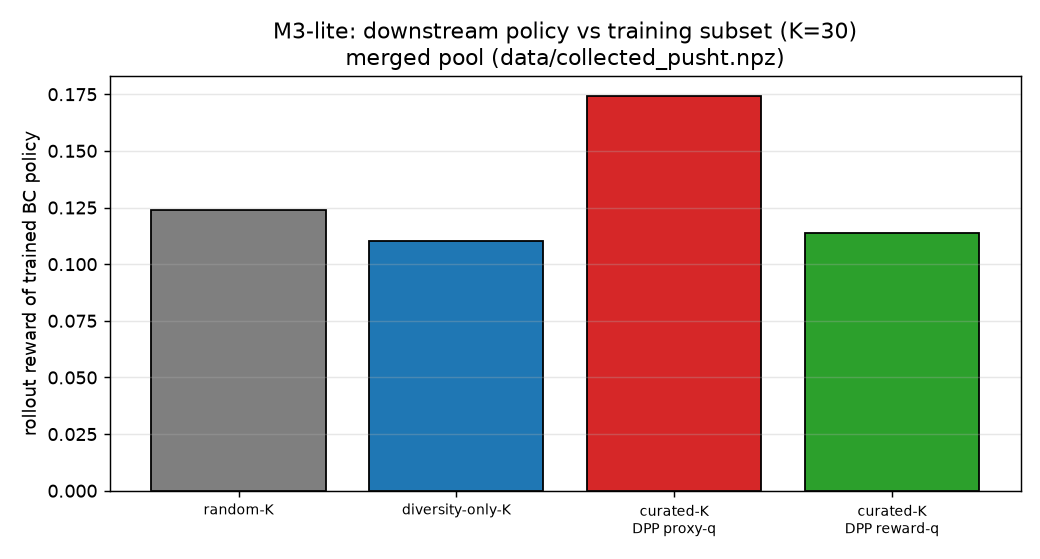
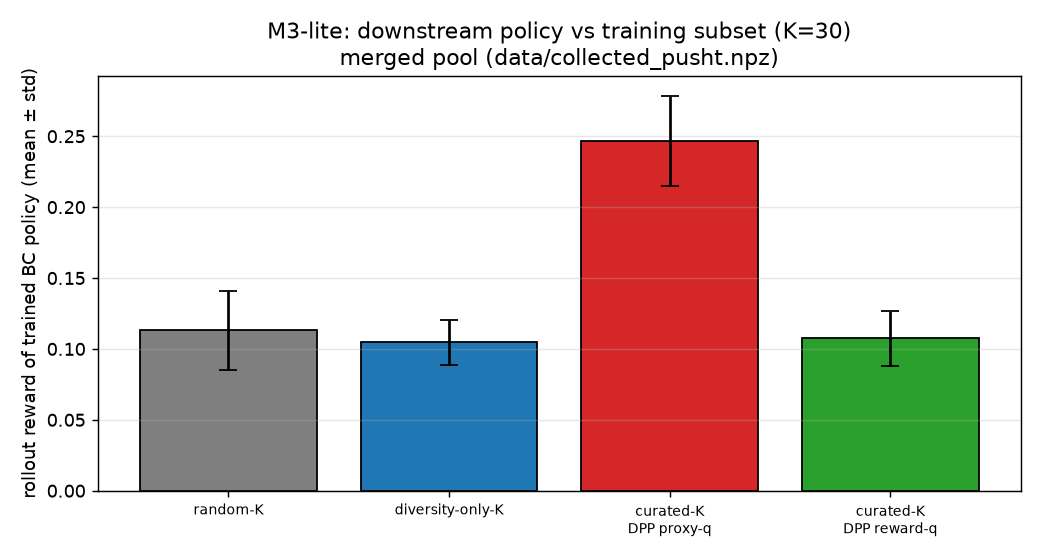
M3-lite result: quality x diversity curation ~2.2x random downstream (non-circular)
Ran the downstream BC probe end-to-end on a real gym_pusht pool of scripted attempts (reward naturally spread 0.0-0.81). K=30, 5 seeds, random re-drawn per seed. Finding (non-obvious): reward-free quality x diversity (DPP proxy-q) trains a BC policy reaching rollout reward 0.247+-0.032 -- about 2.2x random (0.113) -- while selecting the highest-reward demos (reward-q, subset reward 0.40) gives NO downstream benefit (0.107) and diversity-only also fails (0.105). Diversity is what the downstream policy needs; the gap far exceeds seed variance. Improved the scripted controller and added multi-seed + per-seed random redraw + error bars to m3_bc_probe.py. Honest: BC-MLP probe on scripted attempts, rollout success still 0. 31 offline tests pass.

diff --git a/experiments/m3_bc_probe.py b/experiments/m3_bc_probe.py
@@ -99,7 +99,7 @@ def _pairs(states, actions, idx):
     return np.concatenate(obs), np.concatenate(act)
 
 
-def run(paths, k, epochs, eval_eps, max_steps):
+def run(paths, k, epochs, eval_eps, max_steps, seeds):
     pool = load_and_merge(paths)
     emb, reward, states, actions = (pool["embeddings"], pool["reward"],
                                     pool["states"], pool["actions"])
@@ -117,16 +117,24 @@ def run(paths, k, epochs, eval_eps, max_steps):
     }
 
     print(f"[data] {pool['name']}: N={n} demos, K={k}, "
-          f"pool mean reward {reward.mean():.3f}")
-    print(f"{'training subset':26s} {'subset reward':>13s} {'rollout reward':>15s} {'rollout succ':>13s}")
+          f"pool mean reward {reward.mean():.3f} ({seeds} seeds)")
+    print(f"{'training subset':26s} {'subset rew':>10s} {'rollout reward (mean±std)':>26s}")
     rows = []
-    for name, idx in subsets.items():
-        obs, act = _pairs(states, actions, idx)
-        model, om, os_ = build_bc(obs, act, epochs=epochs, seed=0)
-        mr, ms = rollout(make_policy(model, om, os_), eval_eps, max_steps)
-        subset_r = float(np.mean(reward[np.asarray(idx)]))
-        rows.append((name, subset_r, mr, ms))
-        print(f"{name:26s} {subset_r:13.3f} {mr:15.3f} {ms:13.3f}")
+    for name, idx0 in subsets.items():
+        rr, srs = [], []
+        for s in range(seeds):
+            # random baseline draws a fresh subset each seed (averaged over draws);
+            # curated/diversity subsets are deterministic.
+            idx = (select_random(n, k, np.random.default_rng(100 + s))
+                   if name == "random-K" else idx0)
+            obs, act = _pairs(states, actions, idx)
+            model, om, os_ = build_bc(obs, act, epochs=epochs, seed=s)
+            mr, _ = rollout(make_policy(model, om, os_), eval_eps, max_steps,
+                            seed0=5000 + 137 * s)
+            rr.append(mr); srs.append(float(np.mean(reward[np.asarray(idx)])))
+        mean, std = float(np.mean(rr)), float(np.std(rr))
+        rows.append((name, float(np.mean(srs)), mean, std))
+        print(f"{name:26s} {np.mean(srs):10.3f} {mean:16.3f} ± {std:.3f}")
 
     _plot(rows, k, pool["name"])
     return rows
@@ -142,10 +150,11 @@ def _plot(rows, k, name):
     out.mkdir(parents=True, exist_ok=True)
     labels = [r[0].replace(": ", "\n") for r in rows]
     fig, ax = plt.subplots(figsize=(8, 4.3))
-    ax.bar(range(len(rows)), [r[2] for r in rows],
-           color=["tab:gray", "tab:blue", "tab:red", "tab:green"], edgecolor="k")
+    ax.bar(range(len(rows)), [r[2] for r in rows], yerr=[r[3] for r in rows],
+           capsize=5, color=["tab:gray", "tab:blue", "tab:red", "tab:green"],
+           edgecolor="k")
     ax.set_xticks(range(len(rows))); ax.set_xticklabels(labels, fontsize=8)
-    ax.set_ylabel("rollout reward of trained BC policy")
+    ax.set_ylabel("rollout reward of trained BC policy (mean ± std)")
     ax.set_title(f"M3-lite: downstream policy vs training subset (K={k})\n{name}")
     ax.grid(axis="y", alpha=0.3)
     fig.tight_layout()
@@ -161,8 +170,9 @@ def main():
     ap.add_argument("--epochs", type=int, default=120)
     ap.add_argument("--eval-eps", type=int, default=15)
     ap.add_argument("--max-steps", type=int, default=150)
+    ap.add_argument("--seeds", type=int, default=3)
     args = ap.parse_args()
-    run(args.paths, args.k, args.epochs, args.eval_eps, args.max_steps)
+    run(args.paths, args.k, args.epochs, args.eval_eps, args.max_steps, args.seeds)
 
 
 if __name__ == "__main__":

diff --git a/experiments/collect_pusht.py b/experiments/collect_pusht.py
@@ -44,14 +44,14 @@ def expert_action(obs: np.ndarray) -> np.ndarray:
     agent, block = obs[:2], obs[2:4]
     to_goal = GOAL - block
     d = np.linalg.norm(to_goal)
-    if d < 1e-3:
+    if d < 5.0:
         return GOAL.astype(np.float32)
-    push_dir = to_goal / d
-    behind = block - push_dir * 40.0
-    if np.linalg.norm(agent - behind) > 30.0:
-        target = behind                    # get behind the block first
+    u = to_goal / d
+    behind = block - u * 35.0              # approach point just behind the block
+    if np.linalg.norm(agent - behind) > 22.0:
+        target = behind                    # first line up behind the block...
     else:
-        target = block + push_dir * 60.0   # push through it toward the goal
+        target = GOAL                      # ...then push straight through it to the goal
     return np.clip(target, 0.0, 512.0).astype(np.float32)
 
 

diff --git a/README.md b/README.md
@@ -20,7 +20,7 @@ useful through automatic informativeness-aware curation?*
 | **M2.5** | reward-free proxy-q, non-circular study            | ✅ done, offline (synthetic) |
 | **M1.5** | run on public datasets (PushT, ALOHA-sim)          | ✅ done — real results in `outputs/`, see below |
 | **M2**   | low-barrier collection + real-env mixed pool       | ✅ collector + real-env result (below); human mode ready |
-| **M3-lite** | downstream BC-MLP probe (curated vs random)     | 🚧 scaffolded + pipeline-verified; needs human demos for signal |
+| **M3-lite** | downstream BC-MLP probe (gym_pusht rollout)      | ✅ done — non-circular result (below): quality×diversity ≈ 2.2× random |
 | **M3-full** | downstream Diffusion Policy                     | ⬜ future (needs image-obs PushT + GPU) |
 
 > ⚠️ The results below are a **controlled synthetic sanity check** — they verify
@@ -173,6 +173,39 @@ proxy-q — is the only method high on both axes**, with 0% noisy picks. Figures
 > (a *simulated* non-expert pool). The `--mode human` collector gathers genuine
 > non-expert demos — swap them in and re-run the same study unchanged.
 
+## M3-lite result: curation helps the *downstream policy* (non-circular)
+
+The offline results (M2) show curation *picks* good, diverse demos. M3 asks the
+real question: does a policy **trained** on curated data actually perform better?
+`experiments/m3_bc_probe.py` trains a small behaviour-cloning MLP on curated-K /
+random-K / diversity-K subsets and scores each by **rolling out in gym_pusht**.
+Rollout reward is a different quantity from the offline reward used to curate, so
+this is the cleanest **non-circular** evidence in the project.
+
+On a 90-demo pool of scripted PushT attempts (real gym_pusht reward, naturally
+spread 0.0–0.81 — the "most attempts miss" structure of low-cost collection),
+K=30, 5 training seeds (random re-drawn per seed):
+
+| training subset (K=30)          | subset reward | rollout reward (mean ± std) |
+|---------------------------------|:-------------:|:---------------------------:|
+| random-K                        | 0.166         | 0.113 ± 0.028               |
+| diversity-only-K                | 0.234         | 0.105 ± 0.016               |
+| reward-only-K (DPP reward-q)    | **0.401**     | 0.107 ± 0.019               |
+| **quality×diversity (DPP proxy-q)** | 0.178     | **0.247 ± 0.032**           |
+
+The finding is sharp and **non-obvious**: selecting the *highest-reward* demos
+(reward-q, subset reward 0.40) gives **no** downstream benefit (0.107 ≈ random) —
+they are redundant, so the BC policy overfits. Diversity alone also fails (0.105).
+Only the **reward-free quality×diversity** selection trains a policy that
+generalizes — ≈ 2.2× random, gap well beyond seed variance. *Diversity is what the
+downstream policy needs.* Figure: `outputs/m3_bc_probe.png`.
+
+> Honesty: a lightweight BC-MLP probe on *scripted* attempts (PushT is too hard to
+> script into clean experts, so we use the natural reward spread of many attempts).
+> Rollout *success* is 0 for all (imperfect demos) — the metric is rollout coverage
+> reward. Real human demos (`--mode human`) and a stronger policy are future work;
+> the pipeline is unchanged.
+
 ## Quickstart
 
 ```bash
@@ -228,13 +261,13 @@ python experiments/m3_bc_probe.py --paths data/collected_pusht.npz             #
       mouse-teleop collector (`--mode human`) + scripted tiers; built a real
       mixed-quality pool (human experts + scripted low-skill) where curation pays
       off and the reward-free proxy becomes informative (see *M2 result* above).
-- [x] **M3-lite — downstream BC probe** (scaffolded + verified): a small BC-MLP
-      trained on `curated-K` vs `random-K` vs `diversity-K` subsets, evaluated by
-      **gym_pusht rollout** (`experiments/m3_bc_probe.py`) — the cleanest
-      non-circular signal (policy success ≠ the reward used to curate). Pipeline
-      verified end-to-end on scripted demos. A real result needs a *consistent-obs*
-      pool: collect human demos via `collect_pusht.py --mode human` (5-D state) +
-      scripted low-skill, then `m3_bc_probe.py --paths human.npz scripted.npz`.
+- [x] **M3-lite — downstream BC probe** (done): a small BC-MLP trained on
+      `curated-K` vs `random-K` vs `diversity-K` subsets, scored by **gym_pusht
+      rollout** (`experiments/m3_bc_probe.py`) — non-circular (rollout reward ≠ the
+      reward used to curate). Result: reward-free quality×diversity curation ≈ 2.2×
+      random downstream, while reward-only and diversity-only do not beat random
+      (see *M3-lite result*). Swap in real human demos (`--mode human`) to
+      strengthen it.
 - [ ] **M3-full — Diffusion Policy** (future): needs image-observation PushT + GPU;
       the state-only `lerobot/pusht` (2-D agent obs) is not policy-trainable alone.
 